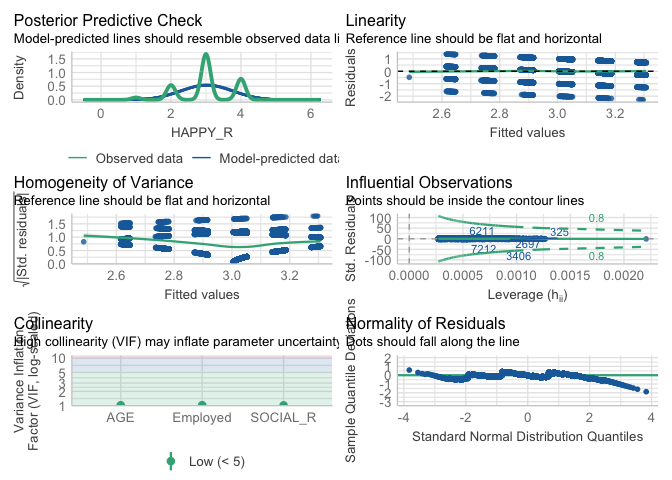
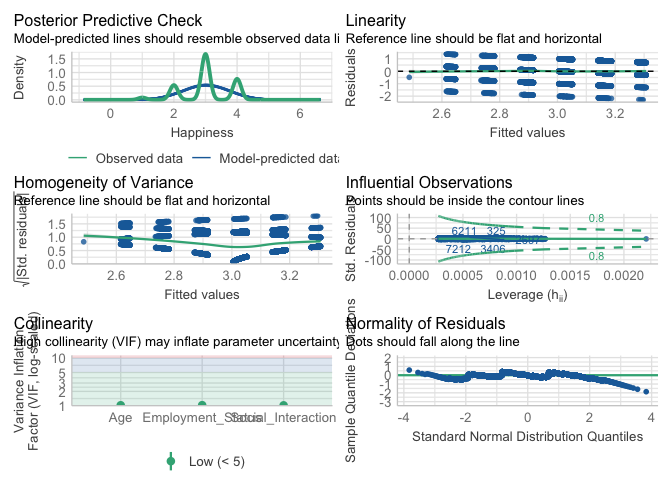
mydataset

diff --git a/Mydataset.md b/Mydataset.md
@@ -147,6 +147,9 @@ library(tidyverse)
     ## ℹ Use the conflicted package (<http://conflicted.r-lib.org/>) to force all conflicts to become errors
 
 ``` r
+library(ggcorrplot)
+
+
 load("/Users/leolu/Documents/38964-0001-Data.rda")
 ```
 
@@ -481,7 +484,16 @@ summary(mydataset$EMP_2)
 ``` r
 mydataset$Employed <- ifelse(mydataset$EMP_1 == "(01) Item selected" | mydataset$EMP_2 == "(01) Item selected", "1", "0")
 
-model<-lm(SAT ~ SOCIAL_R + Employed + AGE, data = mydataset)
+mydatasetr <- mydataset %>%
+  rename(
+    SWL = SAT,
+    Happiness = HAPPY_R,
+    Employment_Status = Employed,
+    Social_Interaction = SOCIAL_R,
+    Age = AGE
+  )
+
+model<-lm(SWL ~ Social_Interaction + Employment_Status + Age, data = mydatasetr)
 
 performance(model)
 ```
@@ -505,32 +517,32 @@ model_summary(model, show.std = TRUE)
     ## 
     ## Model Summary
     ## 
-    ## ─────────────────────────
-    ##              (1) SAT     
-    ## ─────────────────────────
-    ## (Intercept)     2.326 ***
-    ##                (0.045)   
-    ## SOCIAL_R        0.200 ***
-    ##                (0.009)   
-    ## Employed1       0.207 ***
-    ##                (0.022)   
-    ## AGE             0.004 ***
-    ##                (0.001)   
-    ## ─────────────────────────
-    ## R^2             0.074    
-    ## Adj. R^2        0.074    
-    ## Num. obs.    7636        
-    ## ─────────────────────────
+    ## ────────────────────────────────
+    ##                     (1) SWL     
+    ## ────────────────────────────────
+    ## (Intercept)            2.326 ***
+    ##                       (0.045)   
+    ## Social_Interaction     0.200 ***
+    ##                       (0.009)   
+    ## Employment_Status1     0.207 ***
+    ##                       (0.022)   
+    ## Age                    0.004 ***
+    ##                       (0.001)   
+    ## ────────────────────────────────
+    ## R^2                    0.074    
+    ## Adj. R^2               0.074    
+    ## Num. obs.           7636        
+    ## ────────────────────────────────
     ## Note. * p < .05, ** p < .01, *** p < .001.
     ## 
     ## # Check for Multicollinearity
     ## 
     ## Low Correlation
     ## 
-    ##      Term  VIF   VIF 95% CI Increased SE Tolerance Tolerance 95% CI
-    ##  SOCIAL_R 1.02 [1.00, 1.07]         1.01      0.98     [0.94, 1.00]
-    ##  Employed 1.03 [1.01, 1.06]         1.01      0.97     [0.94, 0.99]
-    ##       AGE 1.02 [1.01, 1.06]         1.01      0.98     [0.94, 0.99]
+    ##                Term  VIF   VIF 95% CI Increased SE Tolerance Tolerance 95% CI
+    ##  Social_Interaction 1.02 [1.00, 1.07]         1.01      0.98     [0.94, 1.00]
+    ##   Employment_Status 1.03 [1.01, 1.06]         1.01      0.97     [0.94, 0.99]
+    ##                 Age 1.02 [1.01, 1.06]         1.01      0.98     [0.94, 0.99]
 
 ``` r
 summary(model)
@@ -538,18 +550,19 @@ summary(model)
 
     ## 
     ## Call:
-    ## lm(formula = SAT ~ SOCIAL_R + Employed + AGE, data = mydataset)
+    ## lm(formula = SWL ~ Social_Interaction + Employment_Status + Age, 
+    ##     data = mydatasetr)
     ## 
     ## Residuals:
     ##      Min       1Q   Median       3Q      Max 
     ## -2.58886 -0.68823  0.06936  0.70540  2.54463 
     ## 
     ## Coefficients:
-    ##              Estimate Std. Error t value Pr(>|t|)    
-    ## (Intercept) 2.3262011  0.0447325  52.002   <2e-16 ***
-    ## SOCIAL_R    0.2004531  0.0091845  21.825   <2e-16 ***
-    ## Employed1   0.2065345  0.0221453   9.326   <2e-16 ***
-    ## AGE         0.0040366  0.0008129   4.966    7e-07 ***
+    ##                     Estimate Std. Error t value Pr(>|t|)    
+    ## (Intercept)        2.3262011  0.0447325  52.002   <2e-16 ***
+    ## Social_Interaction 0.2004531  0.0091845  21.825   <2e-16 ***
+    ## Employment_Status1 0.2065345  0.0221453   9.326   <2e-16 ***
+    ## Age                0.0040366  0.0008129   4.966    7e-07 ***
     ## ---
     ## Signif. codes:  0 '***' 0.001 '**' 0.01 '*' 0.05 '.' 0.1 ' ' 1
     ## 
@@ -567,7 +580,7 @@ tab_model(model)
  
 </th>
 <th colspan="3" style="border-top: double; text-align:center; font-style:normal; font-weight:bold; padding:0.2cm; ">
-SAT
+SWL
 </th>
 </tr>
 <tr>
@@ -600,7 +613,7 @@ p
 </tr>
 <tr>
 <td style=" padding:0.2cm; text-align:left; vertical-align:top; text-align:left; ">
-SOCIAL R
+Social Interaction
 </td>
 <td style=" padding:0.2cm; text-align:left; vertical-align:top; text-align:center;  ">
 0.20
@@ -614,7 +627,7 @@ SOCIAL R
 </tr>
 <tr>
 <td style=" padding:0.2cm; text-align:left; vertical-align:top; text-align:left; ">
-Employed \[1\]
+Employment Status \[1\]
 </td>
 <td style=" padding:0.2cm; text-align:left; vertical-align:top; text-align:center;  ">
 0.21
@@ -628,7 +641,7 @@ Employed \[1\]
 </tr>
 <tr>
 <td style=" padding:0.2cm; text-align:left; vertical-align:top; text-align:left; ">
-AGE
+Age
 </td>
 <td style=" padding:0.2cm; text-align:left; vertical-align:top; text-align:center;  ">
 0.00
@@ -659,18 +672,14 @@ R<sup>2</sup> / R<sup>2</sup> adjusted
 </table>
 
 ``` r
-plot_model(model,  type ="est",  show.values = TRUE, vline.color = "#1B191999", line.size = 1.5, dot.size = 2.5, colors = "blue") + theme_bruce()
-```
+#plot_model(model,  type ="est",  show.values = TRUE, vline.color = "#1B191999", line.size = 1.5, dot.size = 2.5, colors = "black") + theme_bruce() + geom_errorbarh(aes(y = SWL, xmin = 0.94, xmax = 1), height = 0.2, size = 1.5) 
 
-![](Mydataset_files/figure-gfm/unnamed-chunk-5-2.png)<!-- -->
-
-``` r
 ggplot(mydataset, aes(x = SOCIAL_R, Employed, y = SAT)) + geom_point() + geom_smooth(method = lm) + theme_bruce()
 ```
 
     ## `geom_smooth()` using formula = 'y ~ x'
 
-![](Mydataset_files/figure-gfm/unnamed-chunk-5-3.png)<!-- -->
+![](Mydataset_files/figure-gfm/unnamed-chunk-5-2.png)<!-- -->
 
 ``` r
 #Higher score of social interaction means more Social interaction, Employed yes means employed.
@@ -680,7 +689,7 @@ ggplot(mydataset, aes(x = SOCIAL_R, Employed, y = SAT)) + geom_point() + geom_sm
 ``` r
 mydataset$Employed <- ifelse(mydataset$EMP_1 == "(01) Item selected" | mydataset$EMP_2 == "(01) Item selected", "1", "0")
 
-model<-lm(HAPPY_R ~ SOCIAL_R + Employed + AGE, data = mydataset)
+model<-lm(Happiness ~ Social_Interaction + Employment_Status + Age, data = mydatasetr)
 
 performance(model)
 ```
@@ -704,32 +713,32 @@ model_summary(model, show.std = TRUE)
     ## 
     ## Model Summary
     ## 
-    ## ─────────────────────────
-    ##              (1) HAPPY_R 
-    ## ─────────────────────────
-    ## (Intercept)     2.602 ***
-    ##                (0.033)   
-    ## SOCIAL_R        0.135 ***
-    ##                (0.007)   
-    ## Employed1       0.120 ***
-    ##                (0.016)   
-    ## AGE             0.001    
-    ##                (0.001)   
-    ## ─────────────────────────
-    ## R^2             0.059    
-    ## Adj. R^2        0.059    
-    ## Num. obs.    7636        
-    ## ─────────────────────────
+    ## ─────────────────────────────────
+    ##                     (1) Happiness
+    ## ─────────────────────────────────
+    ## (Intercept)            2.602 *** 
+    ##                       (0.033)    
+    ## Social_Interaction     0.135 *** 
+    ##                       (0.007)    
+    ## Employment_Status1     0.120 *** 
+    ##                       (0.016)    
+    ## Age                    0.001     
+    ##                       (0.001)    
+    ## ─────────────────────────────────
+    ## R^2                    0.059     
+    ## Adj. R^2               0.059     
+    ## Num. obs.           7636         
+    ## ─────────────────────────────────
     ## Note. * p < .05, ** p < .01, *** p < .001.
     ## 
     ## # Check for Multicollinearity
     ## 
     ## Low Correlation
     ## 
-    ##      Term  VIF   VIF 95% CI Increased SE Tolerance Tolerance 95% CI
-    ##  SOCIAL_R 1.02 [1.00, 1.07]         1.01      0.98     [0.94, 1.00]
-    ##  Employed 1.03 [1.01, 1.06]         1.01      0.97     [0.94, 0.99]
-    ##       AGE 1.02 [1.01, 1.06]         1.01      0.98     [0.94, 0.99]
+    ##                Term  VIF   VIF 95% CI Increased SE Tolerance Tolerance 95% CI
+    ##  Social_Interaction 1.02 [1.00, 1.07]         1.01      0.98     [0.94, 1.00]
+    ##   Employment_Status 1.03 [1.01, 1.06]         1.01      0.97     [0.94, 0.99]
+    ##                 Age 1.02 [1.01, 1.06]         1.01      0.98     [0.94, 0.99]
 
 ``` r
 summary(model)
@@ -737,18 +746,19 @@ summary(model)
 
     ## 
     ## Call:
-    ## lm(formula = HAPPY_R ~ SOCIAL_R + Employed + AGE, data = mydataset)
+    ## lm(formula = Happiness ~ Social_Interaction + Employment_Status + 
+    ##     Age, data = mydatasetr)
     ## 
     ## Residuals:
     ##      Min       1Q   Median       3Q      Max 
     ## -2.29671 -0.28195 -0.02397  0.69276  1.38462 
     ## 
     ## Coefficients:
-    ##              Estimate Std. Error t value Pr(>|t|)    
-    ## (Intercept) 2.6020376  0.0332307  78.302  < 2e-16 ***
-    ## SOCIAL_R    0.1349610  0.0068229  19.780  < 2e-16 ***
-    ## Employed1   0.1204052  0.0164512   7.319 2.75e-13 ***
-    ## AGE         0.0007024  0.0006039   1.163    0.245    
+    ##                     Estimate Std. Error t value Pr(>|t|)    
+    ## (Intercept)        2.6020376  0.0332307  78.302  < 2e-16 ***
+    ## Social_Interaction 0.1349610  0.0068229  19.780  < 2e-16 ***
+    ## Employment_Status1 0.1204052  0.0164512   7.319 2.75e-13 ***
+    ## Age                0.0007024  0.0006039   1.163    0.245    
     ## ---
     ## Signif. codes:  0 '***' 0.001 '**' 0.01 '*' 0.05 '.' 0.1 ' ' 1
     ## 
@@ -766,7 +776,7 @@ tab_model(model)
  
 </th>
 <th colspan="3" style="border-top: double; text-align:center; font-style:normal; font-weight:bold; padding:0.2cm; ">
-HAPPY_R
+Happiness
 </th>
 </tr>
 <tr>
@@ -799,7 +809,7 @@ p
 </tr>
 <tr>
 <td style=" padding:0.2cm; text-align:left; vertical-align:top; text-align:left; ">
-SOCIAL R
+Social Interaction
 </td>
 <td style=" padding:0.2cm; text-align:left; vertical-align:top; text-align:center;  ">
 0.13
@@ -813,7 +823,7 @@ SOCIAL R
 </tr>
 <tr>
 <td style=" padding:0.2cm; text-align:left; vertical-align:top; text-align:left; ">
-Employed \[1\]
+Employment Status \[1\]
 </td>
 <td style=" padding:0.2cm; text-align:left; vertical-align:top; text-align:center;  ">
 0.12
@@ -827,7 +837,7 @@ Employed \[1\]
 </tr>
 <tr>
 <td style=" padding:0.2cm; text-align:left; vertical-align:top; text-align:left; ">
-AGE
+Age
 </td>
 <td style=" padding:0.2cm; text-align:left; vertical-align:top; text-align:center;  ">
 0.00
@@ -858,7 +868,7 @@ R<sup>2</sup> / R<sup>2</sup> adjusted
 </table>
 
 ``` r
-plot_model(model,  type ="est",  show.values = TRUE, vline.color = "#1B191999", line.size = 1.5, dot.size = 2.5, colors = "blue") + theme_bruce()
+plot_model(model,  type ="est",  show.values = TRUE, vline.color = "#1B191999", line.size = 1, dot.size = 2, colors = "black") + theme_bruce()
 ```
 
 ![](Mydataset_files/figure-gfm/unnamed-chunk-6-2.png)<!-- -->
@@ -872,54 +882,39 @@ ggplot(mydataset, aes(x = SOCIAL_R, Employed, y = HAPPY_R)) + geom_point() + geo
 ![](Mydataset_files/figure-gfm/unnamed-chunk-6-3.png)<!-- -->
 
 ``` r
-corrdatasetS <- mydataset %>%
-  select(SAT, Employed, SOCIAL_R, AGE)
+corrdataset <- mydatasetr %>%
+  select(SWL, Happiness, Employment_Status, Social_Interaction, Age) %>% mutate(Employment_Status = as.numeric(Employment_Status))
 
-Corr(corrdatasetS)
+Corr(corrdataset)
 ```
 
-    ## NOTE: `Employed` transformed to numeric.
-    ## 
     ## Pearson's r and 95% confidence intervals:
-    ## ──────────────────────────────────────────────────────
-    ##                        r       [95% CI]     p        N
-    ## ──────────────────────────────────────────────────────
-    ## SAT-Employed        0.12 [ 0.10,  0.15] <.001 *** 7636
-    ## SAT-SOCIAL_R        0.25 [ 0.23,  0.27] <.001 *** 7636
-    ## SAT-AGE             0.02 [-0.00,  0.04]  .058 .   7636
-    ## Employed-SOCIAL_R   0.11 [ 0.09,  0.13] <.001 *** 7636
-    ## Employed-AGE       -0.13 [-0.15, -0.11] <.001 *** 7636
-    ## SOCIAL_R-AGE       -0.08 [-0.11, -0.06] <.001 *** 7636
-    ## ──────────────────────────────────────────────────────
+    ## ─────────────────────────────────────────────────────────────────────────
+    ##                                           r       [95% CI]     p        N
+    ## ─────────────────────────────────────────────────────────────────────────
+    ## SWL-Happiness                          0.61 [ 0.59,  0.62] <.001 *** 7636
+    ## SWL-Employment_Status                  0.12 [ 0.10,  0.15] <.001 *** 7636
+    ## SWL-Social_Interaction                 0.25 [ 0.23,  0.27] <.001 *** 7636
+    ## SWL-Age                                0.02 [-0.00,  0.04]  .058 .   7636
+    ## Happiness-Employment_Status            0.11 [ 0.08,  0.13] <.001 *** 7636
+    ## Happiness-Social_Interaction           0.23 [ 0.21,  0.25] <.001 *** 7636
+    ## Happiness-Age                         -0.02 [-0.04,  0.01]  .163     7636
+    ## Employment_Status-Social_Interaction   0.11 [ 0.09,  0.13] <.001 *** 7636
+    ## Employment_Status-Age                 -0.13 [-0.15, -0.11] <.001 *** 7636
+    ## Social_Interaction-Age                -0.08 [-0.11, -0.06] <.001 *** 7636
+    ## ─────────────────────────────────────────────────────────────────────────
 
 ![](Mydataset_files/figure-gfm/unnamed-chunk-7-1.png)<!-- -->
 
     ## Correlation matrix is displayed in the RStudio `Plots` Pane.
 
 ``` r
-corrdatasetH <- mydataset %>%
-  select(HAPPY_R, Employed, SOCIAL_R, AGE)
+corr_matrix <- cor(corrdataset, use = "complete.obs") 
 
-Corr(corrdatasetH)
+ggcorrplot(corr_matrix, method = "square", colors = c("blue", "grey", "white"), title = "Correlation Plot", lab = TRUE)
 ```
 
-    ## NOTE: `Employed` transformed to numeric.
-    ## 
-    ## Pearson's r and 95% confidence intervals:
-    ## ──────────────────────────────────────────────────────
-    ##                        r       [95% CI]     p        N
-    ## ──────────────────────────────────────────────────────
-    ## HAPPY_R-Employed    0.11 [ 0.08,  0.13] <.001 *** 7636
-    ## HAPPY_R-SOCIAL_R    0.23 [ 0.21,  0.25] <.001 *** 7636
-    ## HAPPY_R-AGE        -0.02 [-0.04,  0.01]  .163     7636
-    ## Employed-SOCIAL_R   0.11 [ 0.09,  0.13] <.001 *** 7636
-    ## Employed-AGE       -0.13 [-0.15, -0.11] <.001 *** 7636
-    ## SOCIAL_R-AGE       -0.08 [-0.11, -0.06] <.001 *** 7636
-    ## ──────────────────────────────────────────────────────
-
 ![](Mydataset_files/figure-gfm/unnamed-chunk-7-2.png)<!-- -->
-
-    ## Correlation matrix is displayed in the RStudio `Plots` Pane.
 
 ``` r
 Alpha(mydataset, "SAT", 1:5)
